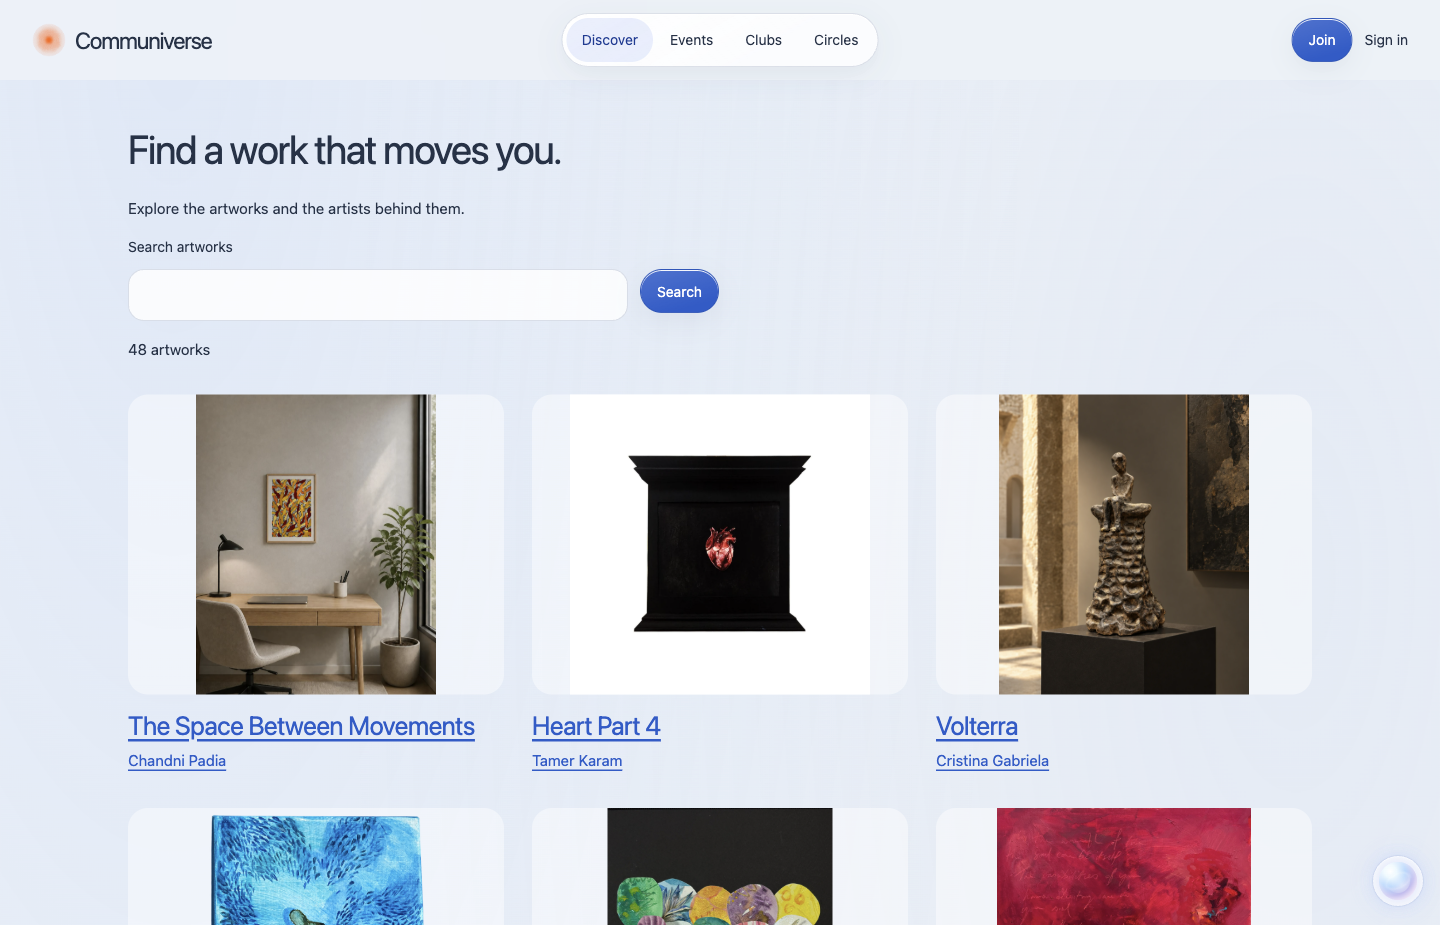
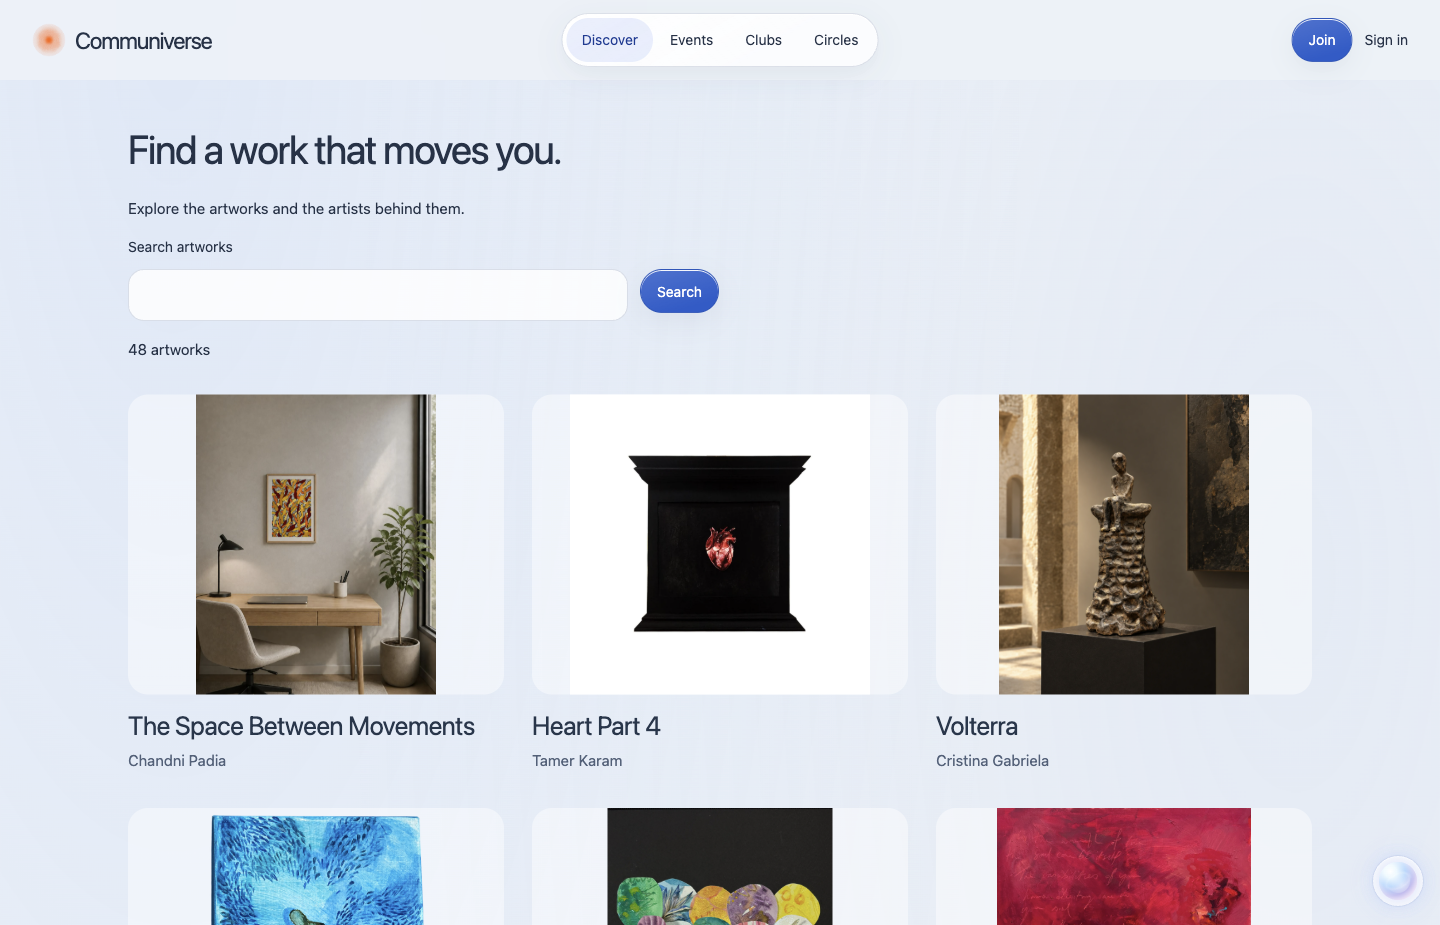
Use branded slate typography for artwork links

Changed region(s): [[0.0938, 0.7568, 0.3438, 0.8476], [0.375, 0.7568, 0.4688, 0.8476], [0.6562, 0.7568, 0.7188, 0.8476]]

diff --git a/docs/site-fixes/infinite-scroll.md b/docs/site-fixes/infinite-scroll.md
@@ -4,6 +4,8 @@ The user selected Home and Works. This follow-up is based on Circles refinement 
 
 Home already has automatic cursor loading. Browser verification at 375px and 1440px reaches all 45 eligible works with 45 unique IDs. Artist balancing and the three Home-only exclusions remain unchanged.
 
+Artwork titles use dark slate, artist names use muted slate, and artwork-card links have no resting underlines. Keyboard focus outlines and link behavior are retained. Inline prose links keep their visual distinction.
+
 Works now progressively appends 18, 36 and then all 48 artworks as the visitor approaches the bottom. It interleaves artists without applying Home exclusions. The current catalogue remains in initial HTML, so script failure or disabled JavaScript leaves all records available. Only the enhanced browser view queues later batches; images retain native lazy loading. This bounded 48-work catalogue does not require another API or database read for each batch.
 
 The loading-point observer re-arms after appending, including when a fast scroll leaves it visible. Manual loading remains available as a keyboard/browser fallback. Search performs normal navigation and starts a fresh filtered collection; Gemma's three results immediately reach their end state. The observer disconnects at the end or on page hide and reconnects for restored browser pages. No cards repeat, no new motion is introduced and focus is preserved during automatic loading.
